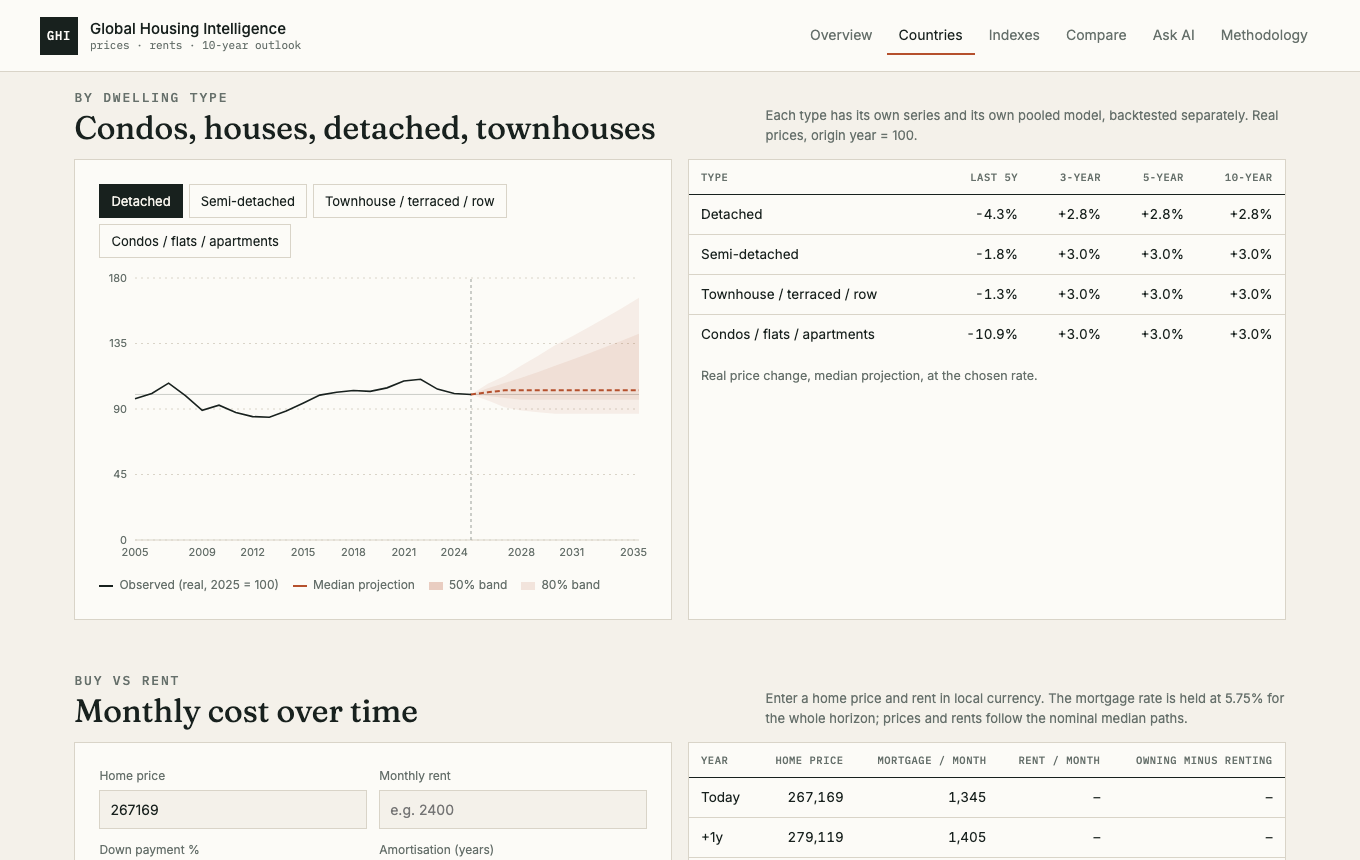
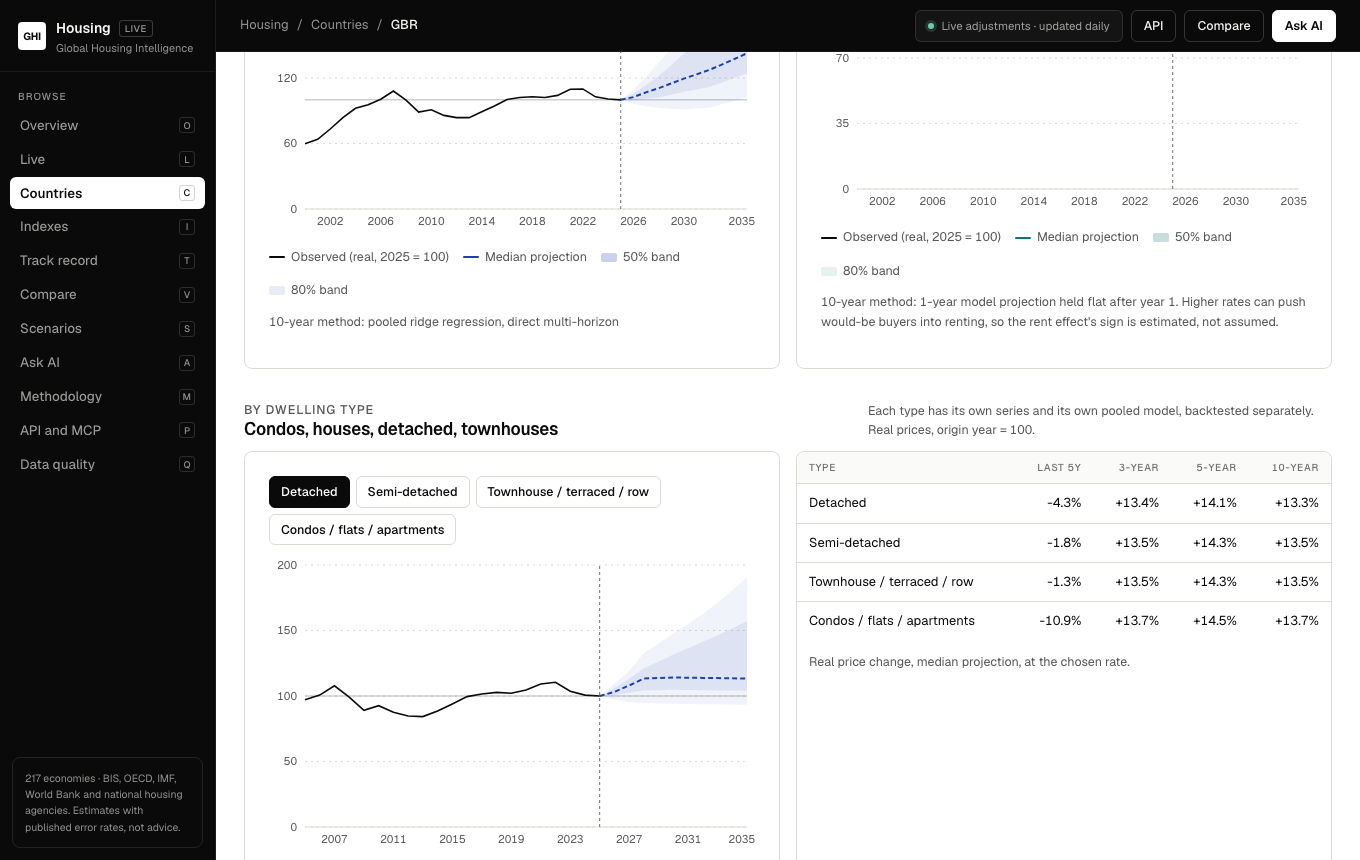
README: refreshed screenshots in the shared brand, scenario and live views
Claude-Session: https://claude.ai/code/session_01QxWsWQqyUkobNmr747NsM9

diff --git a/README.md b/README.md
@@ -77,6 +77,14 @@ Where a source publishes prices by dwelling type, each type gets its own history
 
 ![Buyer index league table](docs/screenshots/indexes.png)
 
+### Scenarios: rates, unemployment, wages and growth together
+
+![Scenario builder for Canada](docs/screenshots/scenario.png)
+
+### Live adjustments from rates and events
+
+![Live page: rate moves, detected events and the event library](docs/screenshots/live.png)
+
 | Route | What you get |
 |---|---|
 | `/` | World map of projected 10-year real price change, strongest and weakest outlooks, persona leaders, risk register |
